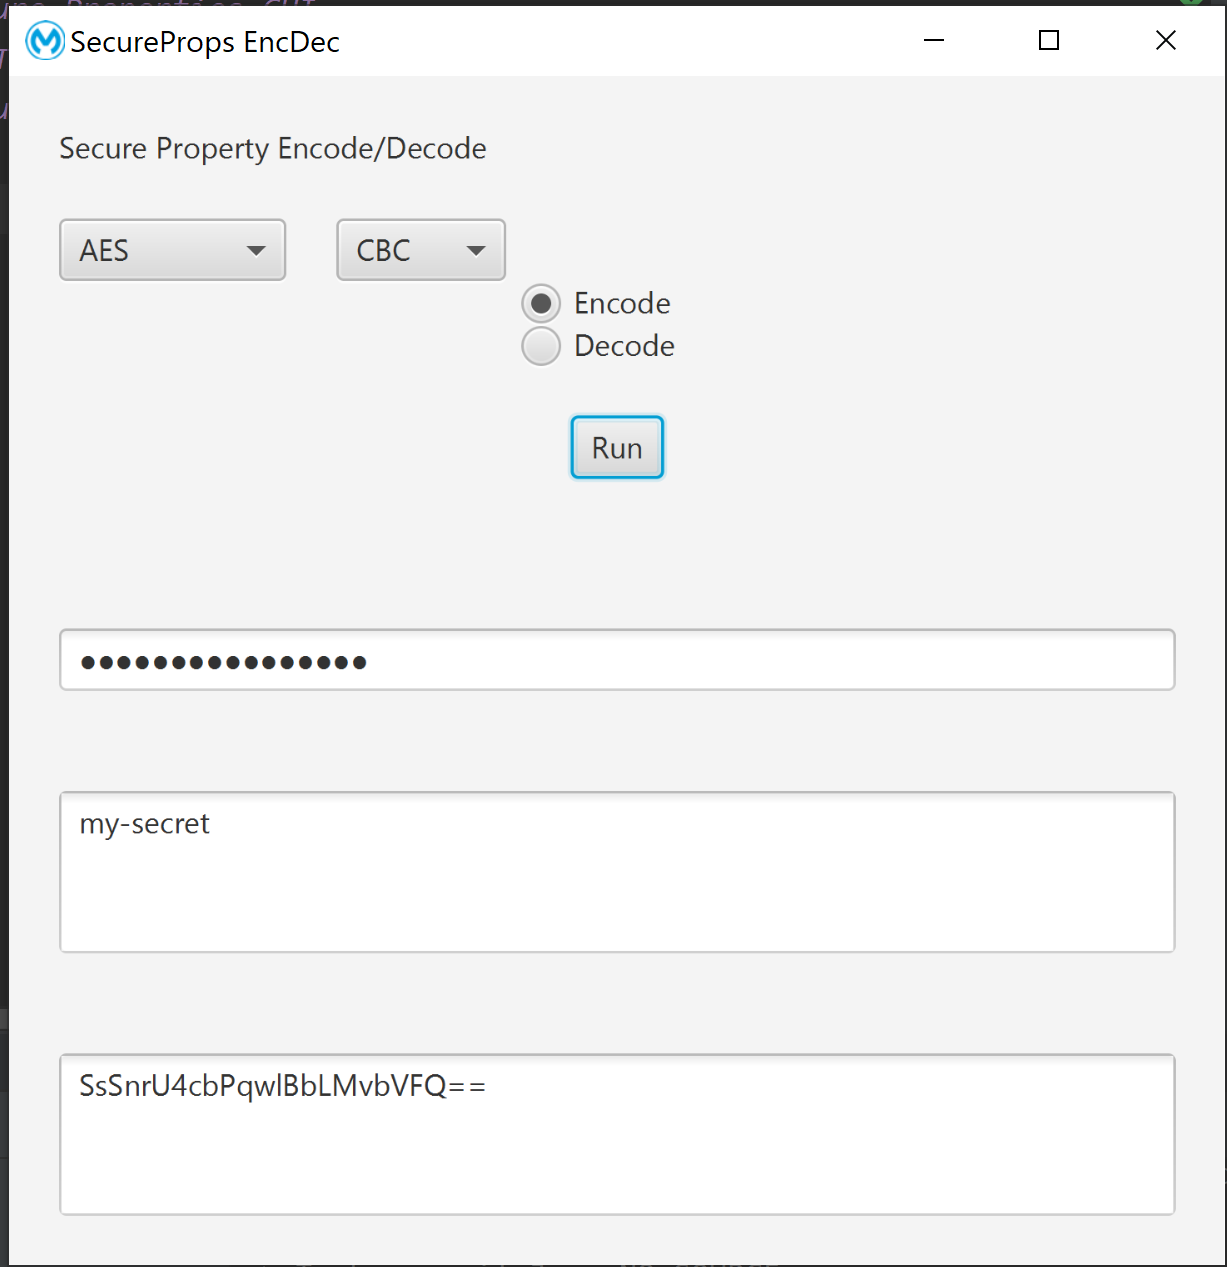
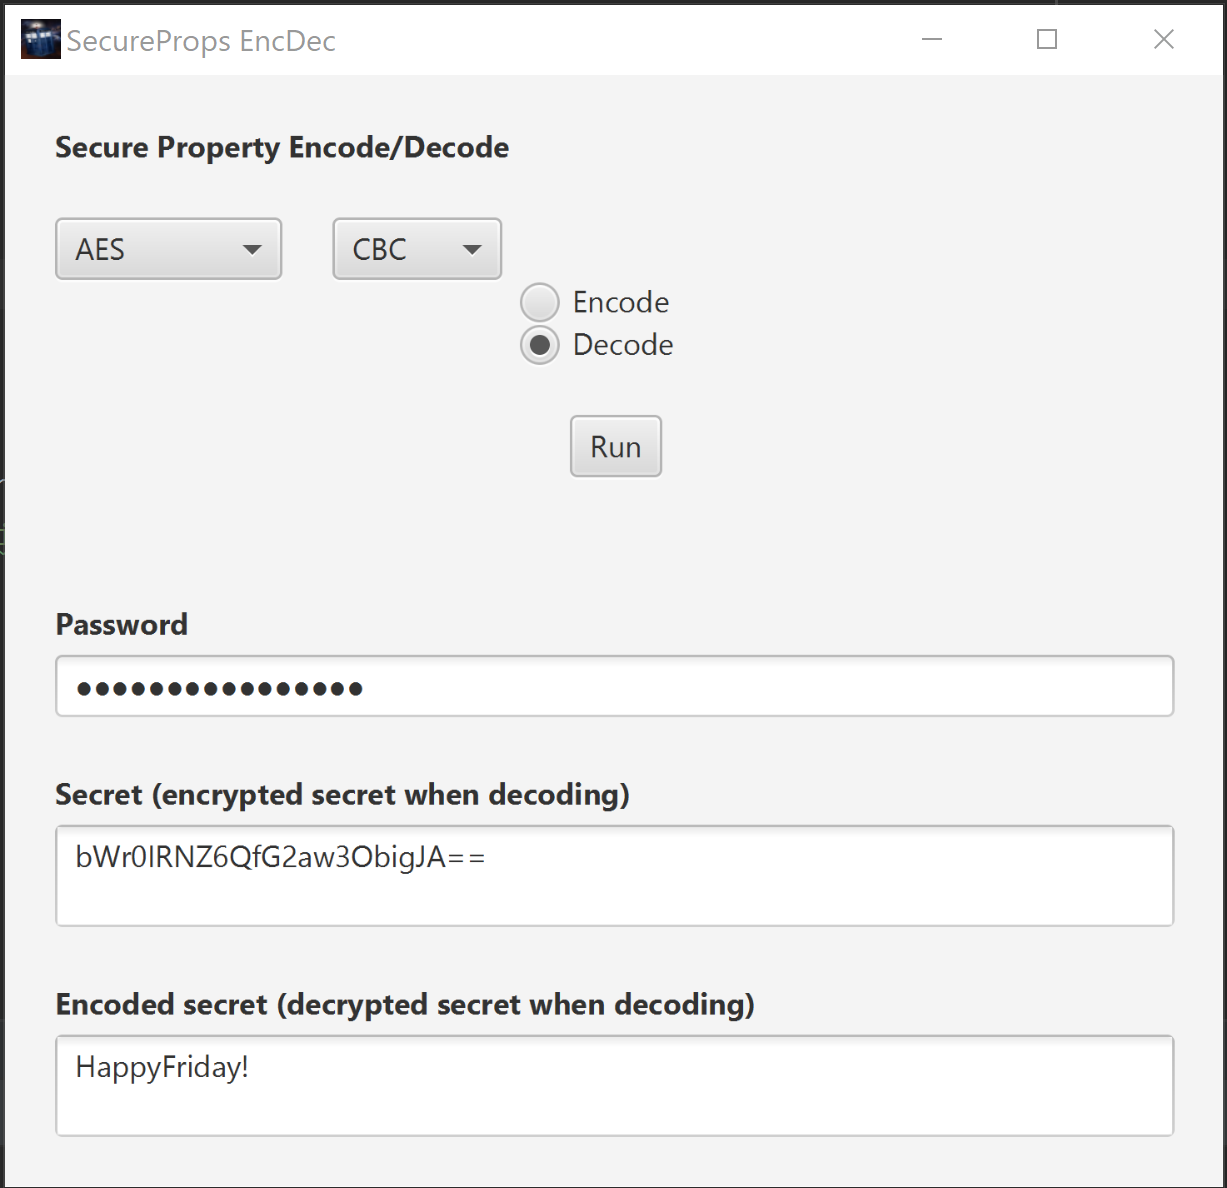
#1

diff --git a/src/main/kotlin/com/example/demo/view/MainView.kt b/src/main/kotlin/com/example/demo/view/MainView.kt
@@ -9,6 +9,7 @@ import javafx.scene.control.Toggle
 import javafx.scene.control.ToggleGroup
 import javafx.scene.layout.Priority
 import javafx.scene.text.Font
+import javafx.scene.text.FontWeight
 import org.omg.SendingContext.RunTime
 import tornadofx.*
 import java.io.File
@@ -50,6 +51,9 @@ class MainView : View("SecureProps EncDec") {
             vboxConstraints {
                 margin = Insets(20.0,20.0,20.0,20.0)
                 vGrow = Priority.ALWAYS
+            }
+            style {
+                fontWeight = FontWeight.BOLD
             }
             alignment = Pos.CENTER
             text = "Secure Property Encode/Decode"
@@ -136,9 +140,19 @@ class MainView : View("SecureProps EncDec") {
         }
 
 
+        label {
+            vboxConstraints {
+                margin = Insets(10.0,20.0,2.0,20.0)
+                vGrow = Priority.ALWAYS
+            }
+            style {
+                fontWeight = FontWeight.BOLD
+            }
+            text = "Password"
+        }
         passwordfield {
             vboxConstraints {
-                margin = Insets(20.0,20.0,20.0,20.0)
+                margin = Insets(2.0,20.0,20.0,20.0)
                 vGrow = Priority.ALWAYS
             }
             prefHeight = 25.0
@@ -147,19 +161,38 @@ class MainView : View("SecureProps EncDec") {
             this.textProperty().bindBidirectional(secretField)
         }
 
-        //textarea(textAreaRes)
+        label {
+            vboxConstraints {
+                margin = Insets(2.0,20.0,2.0,20.0)
+                vGrow = Priority.ALWAYS
+            }
+            style {
+                fontWeight = FontWeight.BOLD
+            }
+            text = "Secret (encrypted secret when decoding)"
+        }
         textarea {
             vboxConstraints {
-                margin = Insets(20.0,20.0,20.0,20.0)
+                margin = Insets(2.0,20.0,20.0,20.0)
                 vGrow = Priority.ALWAYS
             }
             promptText="Enter secret to encode, or result"
             this.textProperty().bindBidirectional(textField)
         }
 
+        label {
+            vboxConstraints {
+                margin = Insets(2.0,20.0,2.0,20.0)
+                vGrow = Priority.ALWAYS
+            }
+            style {
+                fontWeight = FontWeight.BOLD
+            }
+            text = "Encoded secret (decrypted secret when decoding)"
+        }
         textarea {
             vboxConstraints {
-                margin = Insets(20.0,20.0,20.0,20.0)
+                margin = Insets(2.0,20.0,20.0,20.0)
                 vGrow = Priority.ALWAYS
             }
             promptText="Result"

diff --git a/src/main/kotlin/com/example/demo/app/MyApp.kt b/src/main/kotlin/com/example/demo/app/MyApp.kt
@@ -9,12 +9,12 @@ import java.nio.file.Paths
 class MyApp: App(MainView::class, Styles::class) {
     override fun start(stage: Stage) {
         with (stage) {
-            width = 640.0
+            width = 500.0
             height = 480.0
         }
 
         var myPath = Paths.get("").toAbsolutePath().toString()
-        setStageIcon(Image("file:///${myPath}/images/Favico.png"))
+        setStageIcon(Image("file:///${myPath}/images/Tardis-133x200.jpg"))      // Favico.png
 
         super.start(stage)
     }

diff --git a/ReadMe.md b/ReadMe.md
@@ -9,7 +9,5 @@ I'm still considering an appropriate layout for runtime Jar files and will updat
 **TornadoFx GUI application**
 ![alt text][snap]
 
-[snap]: https://user-images.githubusercontent.com/4605105/76032967-0adfb980-5f09-11ea-86b8-d5f79a82f3c3.PNG "Secure Porps screen shot"
+[snap]: https://user-images.githubusercontent.com/4605105/76085321-ce9b7000-5f7f-11ea-84eb-44c5e603d176.PNG "Secure Props screen shot"
 
-**Gist for image uploads**
-[here](https://gist.github.com/vinkla/dca76249ba6b73c5dd66a4e986df4c8d)
